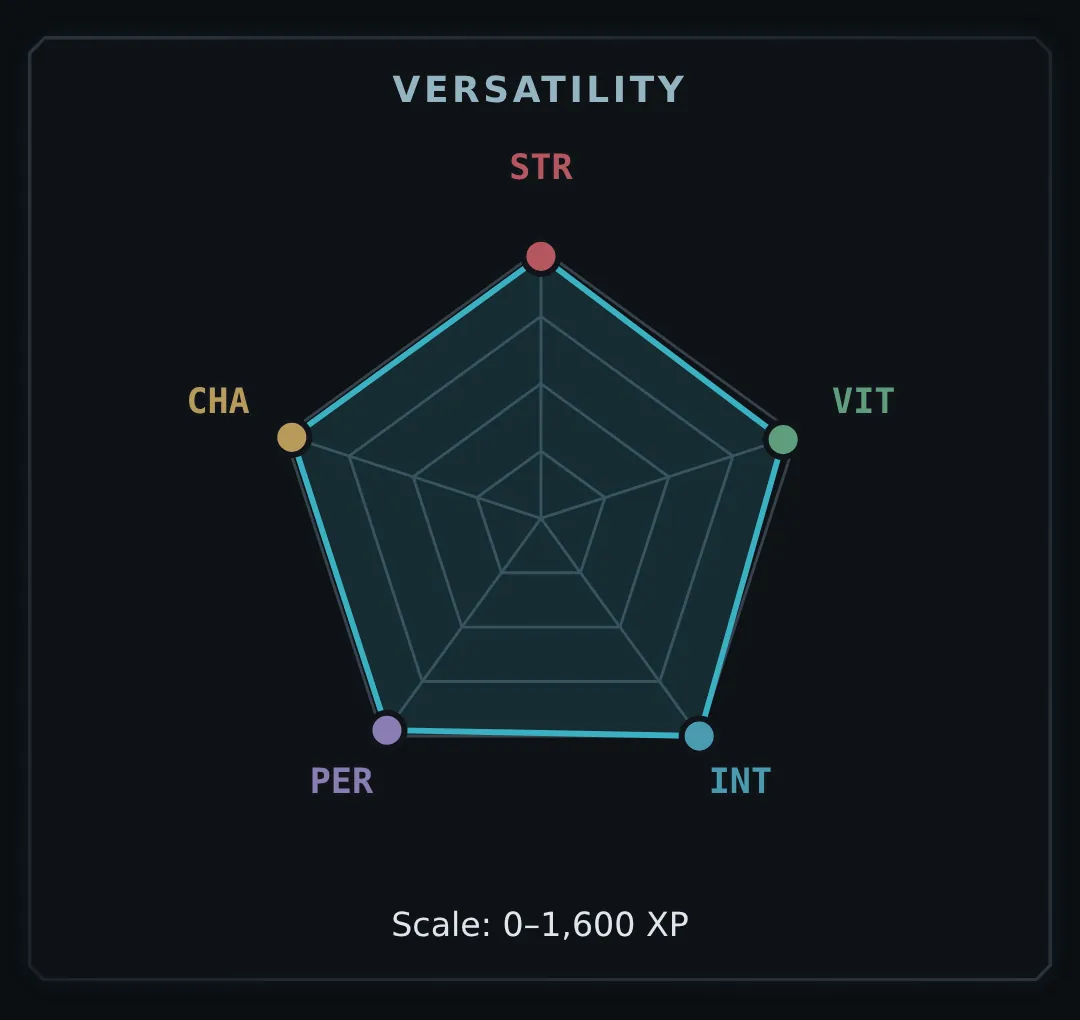
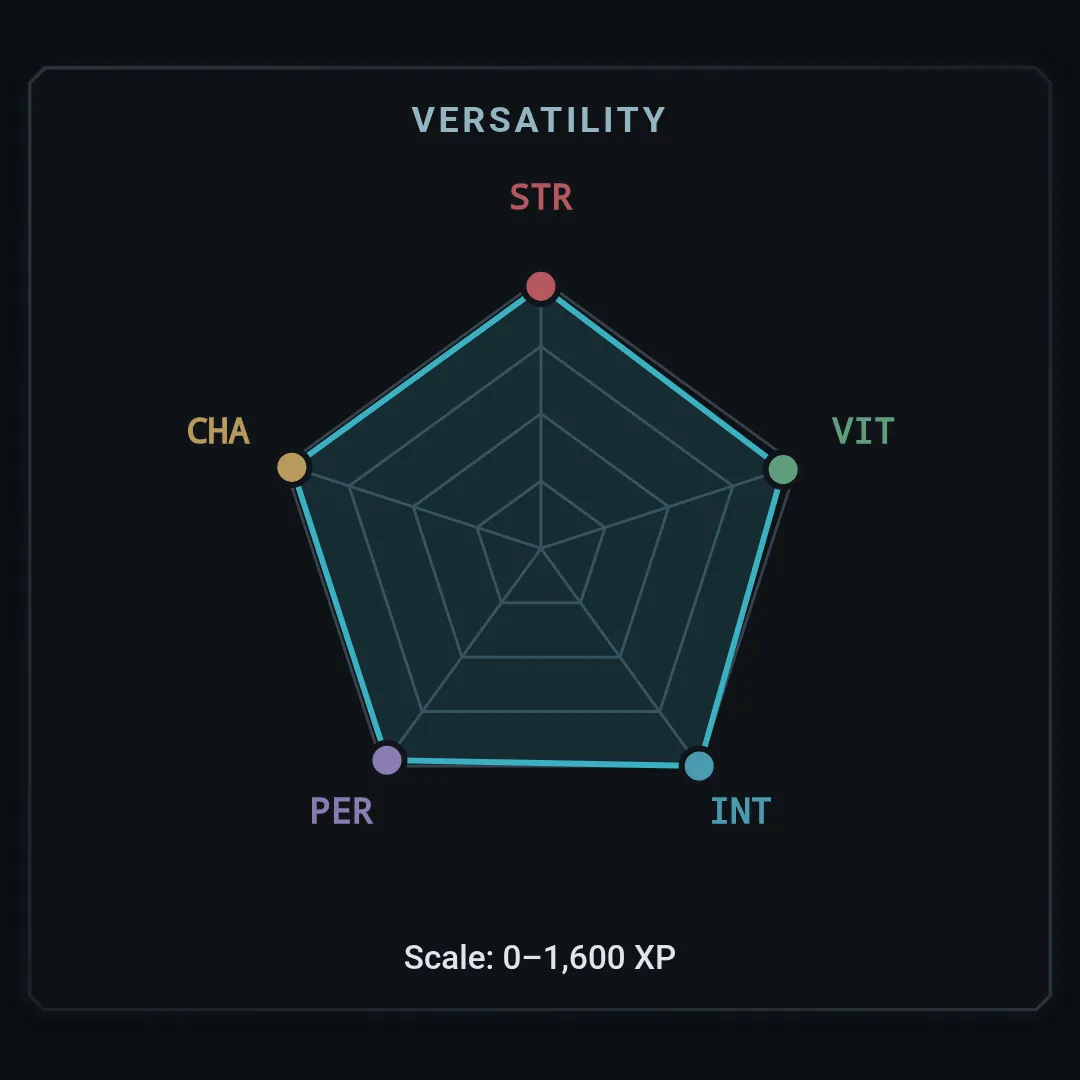
Update landing page

diff --git a/index.html b/index.html
@@ -94,14 +94,14 @@
 <section class="features" id="features" aria-labelledby="features-title">
   <h2 id="features-title" class="sec-title reveal"><span>FEATURES</span>Everything a Hunter needs.</h2>
   <div class="grid">
-    <article class="reveal"><img src="img/feature-attributes.webp" alt="Attributes panel: Strength, Vitality, Intellect, Perception, and Charisma with XP bars and classes" loading="lazy" width="1080" height="1020"><h3>Five Attributes</h3><p>Strength, Vitality, Intellect, Perception, and Charisma, each with its own class path.</p></article>
-    <article class="reveal"><img src="img/feature-mastery.webp" alt="Habit Mastery list with each habit at Level 3 Hunter" loading="lazy" width="1080" height="1020"><h3>Habit Mastery</h3><p>Every habit levels up on its own, from Awakened to Ascendant.</p></article>
-    <article class="reveal"><img src="img/feature-ranks.webp" alt="Rank ladder from E-Rank Provisional Hunter to S-Rank Chief Hunter" loading="lazy" width="1080" height="1020"><h3>Ranks E to S</h3><p>Six Hunter ranks, with a promotion ceremony and a reissued license.</p></article>
-    <article class="reveal"><img src="img/feature-titles.webp" alt="Titles screen with the assigned title Day One and unlocked titles" loading="lazy" width="1080" height="1020"><h3>100 titles</h3><p>Titles, achievements, and operations to unlock and equip.</p></article>
-    <article class="reveal"><img src="img/feature-skills.webp" alt="Skill Registry with four skills and their levels" loading="lazy" width="1080" height="1020"><h3>Skills</h3><p>Log practice sessions for the skills you are building.</p></article>
-    <article class="reveal"><img src="img/feature-statistics.webp" alt="Versatility chart across the five Attributes" loading="lazy" width="1080" height="1020"><h3>Statistics</h3><p>Streaks, yearly activity, a versatility chart, and a Weekly System Report with your grade.</p></article>
-    <article class="reveal"><img src="img/feature-applock.webp" alt="App Lock screen: Access Restricted, enter passcode" loading="lazy" width="1080" height="1020"><h3>App Lock</h3><p>Passcode, password, pattern, or fingerprint.</p></article>
-    <article class="reveal"><img src="img/feature-backups.webp" alt="Data and Storage: encrypted backup, plain backup, and restore" loading="lazy" width="1080" height="1020"><h3>Backups you control</h3><p>Encrypted backup files, plus automatic snapshots on your phone.</p></article>
+    <article class="reveal"><img src="img/feature-attributes.webp" alt="Attributes panel: Strength, Vitality, Intellect, Perception, and Charisma with XP bars and classes" loading="lazy" width="1080" height="1080"><h3>Five Attributes</h3><p>Strength, Vitality, Intellect, Perception, and Charisma, each with its own class path.</p></article>
+    <article class="reveal"><img src="img/feature-mastery.webp" alt="Habit Mastery list with each habit at Level 3 Hunter" loading="lazy" width="1080" height="1080"><h3>Habit Mastery</h3><p>Every habit levels up on its own, from Awakened to Ascendant.</p></article>
+    <article class="reveal"><img src="img/feature-ranks.webp" alt="Rank ladder from E-Rank Provisional Hunter to S-Rank Chief Hunter" loading="lazy" width="1080" height="1080"><h3>Ranks E to S</h3><p>Six Hunter ranks, with a promotion ceremony and a reissued license.</p></article>
+    <article class="reveal"><img src="img/feature-titles.webp" alt="Titles screen with the assigned title Day One and unlocked titles" loading="lazy" width="1080" height="1080"><h3>100 titles</h3><p>Titles, achievements, and operations to unlock and equip.</p></article>
+    <article class="reveal"><img src="img/feature-skills.webp" alt="Skill Registry with four skills and their levels" loading="lazy" width="1080" height="1080"><h3>Skills</h3><p>Log practice sessions for the skills you are building.</p></article>
+    <article class="reveal"><img src="img/feature-statistics.webp" alt="Versatility chart across the five Attributes" loading="lazy" width="1080" height="1080"><h3>Statistics</h3><p>Streaks, yearly activity, a versatility chart, and a Weekly System Report with your grade.</p></article>
+    <article class="reveal"><img src="img/feature-applock.webp" alt="App Lock screen: Access Restricted, enter passcode" loading="lazy" width="1080" height="1080"><h3>App Lock</h3><p>Passcode, password, pattern, or fingerprint.</p></article>
+    <article class="reveal"><img src="img/feature-backups.webp" alt="Data and Storage: encrypted backup, plain backup, and restore" loading="lazy" width="1080" height="1080"><h3>Backups you control</h3><p>Encrypted backup files, plus automatic snapshots on your phone.</p></article>
   </div>
 </section>
 
@@ -116,12 +116,12 @@
 <section class="shots" aria-labelledby="shots-title">
   <h2 id="shots-title" class="sec-title reveal"><span>SCREENSHOTS</span>Take a look.</h2>
   <div class="shot-row" tabindex="0" aria-label="App screenshots, scroll sideways">
-    <img src="screenshots/01-home.png" alt="Home: level, rank, Attributes, today's mission and habits" loading="lazy" width="1080" height="1920">
-    <img src="screenshots/02-daily-mission.png" alt="A Daily Mission offer with tasks, reward, and risk" loading="lazy" width="1080" height="1920">
-    <img src="screenshots/03-level-up.png" alt="Level up window counting to level 13" loading="lazy" width="1080" height="1920">
-    <img src="screenshots/04-license.png" alt="The Hunter's License page" loading="lazy" width="1080" height="1920">
-    <img src="screenshots/05-profile.png" alt="Hunter profile with Attributes and classes" loading="lazy" width="1080" height="1920">
-    <img src="screenshots/06-statistics.png" alt="Statistics with the versatility chart" loading="lazy" width="1080" height="1920">
+    <img src="img/shot-01-home.webp" alt="Home: level, rank, Attributes, today's mission and habits" loading="lazy" width="1080" height="2400">
+    <img src="img/shot-02-daily-mission.webp" alt="A Daily Mission offer with tasks, reward, and risk" loading="lazy" width="1080" height="2400">
+    <img src="img/shot-03-level-up.webp" alt="Level up window counting to level 13" loading="lazy" width="1080" height="2400">
+    <img src="img/shot-04-license.webp" alt="The Hunter's License page" loading="lazy" width="1080" height="2400">
+    <img src="img/shot-05-profile.webp" alt="Hunter profile with Attributes and classes" loading="lazy" width="1080" height="2400">
+    <img src="img/shot-06-statistics.webp" alt="Statistics with the versatility chart" loading="lazy" width="1080" height="2400">
   </div>
 </section>
 

diff --git a/site.css b/site.css
@@ -120,7 +120,7 @@ h1 b { color: var(--accent); }
 /* features */
 .grid { display: grid; grid-template-columns: repeat(4, 1fr); gap: 1rem; }
 .grid article { padding: 0 0 1.2rem; border: 1px solid var(--line); background: rgba(14, 20, 26, .7); clip-path: polygon(.8rem 0, 100% 0, 100% calc(100% - .8rem), calc(100% - .8rem) 100%, 0 100%, 0 .8rem); }
-.grid img { width: 100%; height: auto; aspect-ratio: 18 / 17; margin-bottom: 1rem; border-bottom: 1px solid var(--line); }
+.grid img { width: 100%; height: auto; margin-bottom: 1rem; border-bottom: 1px solid var(--line); }
 .grid h3 { margin: 0 1.2rem .3rem; font: 700 1.3rem var(--display); color: var(--accent-hi); } .grid p { margin: 0 1.2rem; font-size: .95rem; }
 
 /* privacy */
@@ -130,7 +130,7 @@ h1 b { color: var(--accent); }
 
 /* screenshots */
 .shot-row { display: flex; gap: 1rem; overflow-x: auto; scroll-snap-type: x mandatory; padding-bottom: 1rem; scrollbar-width: thin; scrollbar-color: #2c4650 transparent; }
-.shot-row img { flex: none; width: min(15rem, 62vw); height: auto; scroll-snap-align: start; border: 1px solid var(--line); border-radius: .6rem; }
+.shot-row img { flex: none; width: min(16rem, 66vw); height: auto; scroll-snap-align: start; border: 1px solid var(--line); border-radius: .6rem; }
 
 /* install */
 .install-grid { display: grid; grid-template-columns: 1.3fr 1fr; gap: 2rem; align-items: start; }
